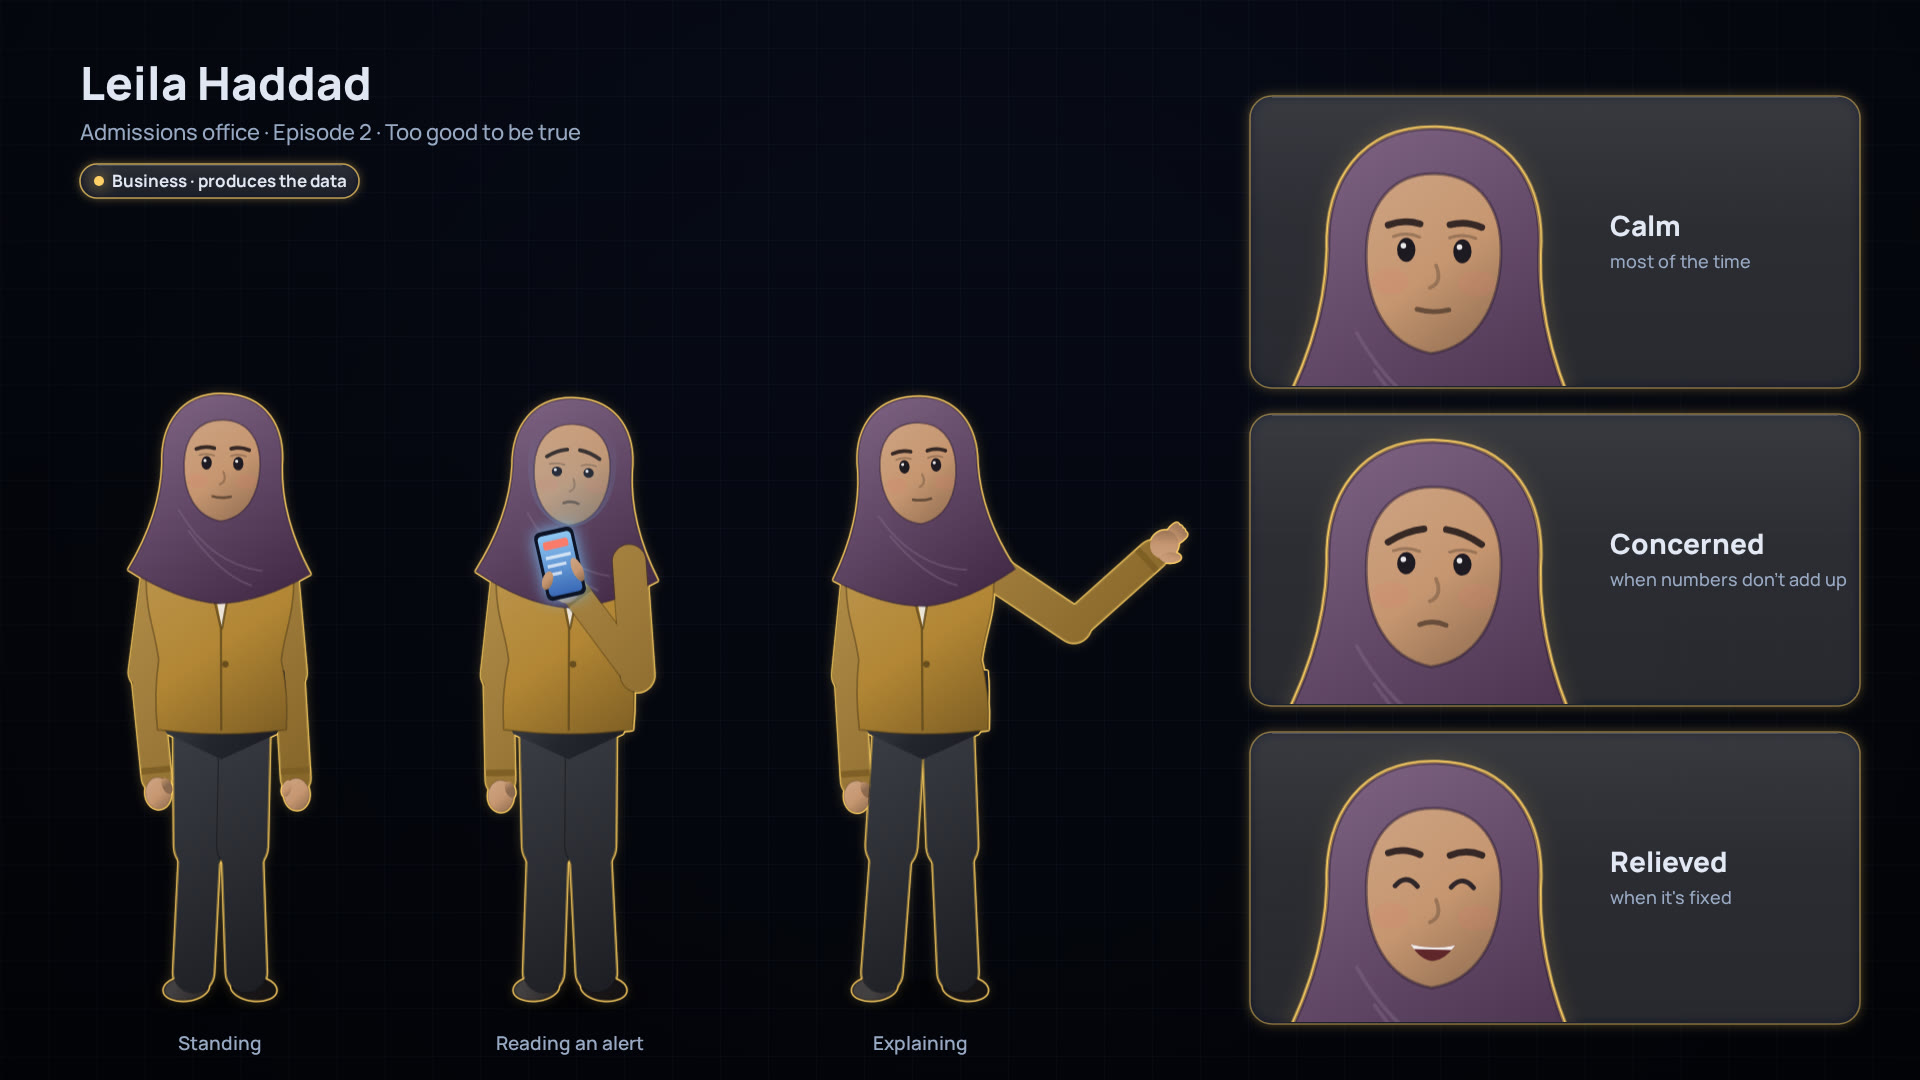
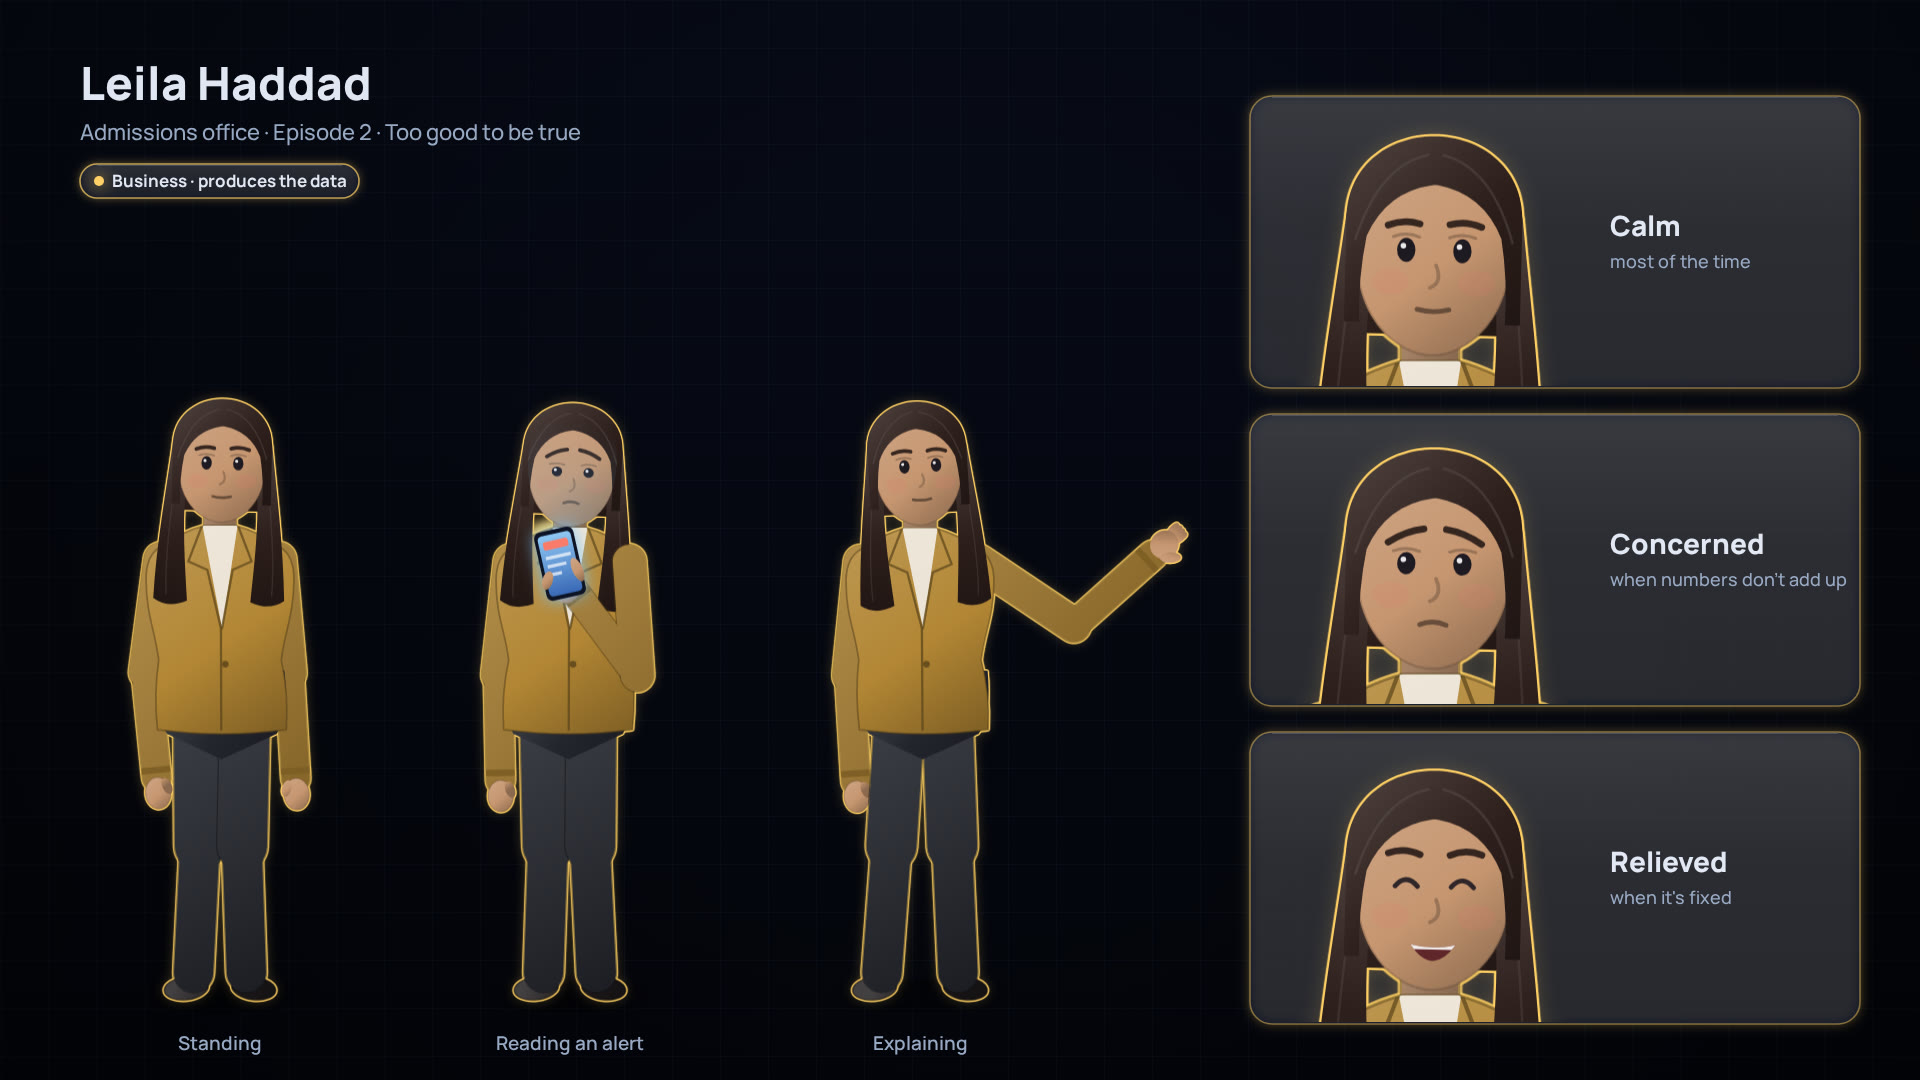
Change Leila's look to long, uncovered hair
At the author's request, Leila no longer wears a head covering: she has
long dark hair with a middle parting, distinct from the other
characters' hair. The head-covering drawing code is removed, and the
line-up, her card and the character sheet's README are updated.

Claude-Session: https://claude.ai/code/session_014Sfc4fgdpAXDRgjmQhfUim

diff --git a/films/when-things-go-wrong/characters/people.js b/films/when-things-go-wrong/characters/people.js
@@ -22,7 +22,7 @@ const PEOPLE={
     skin:[112,72,50],hair:{style:"coily",c:[30,24,22]},glasses:[28,30,38],lanyard:TECH,
     top:{kind:"overshirt",c:[60,92,110],inner:[212,220,232]},bottom:{c:[42,50,66]},shoe:[28,30,36],build:{sh:74,hip:58,h:1}},
   leila:{name:"Leila Haddad",role:"Admissions office",side:"Business",does:"produces",edge:BIZ,seed:5,
-    skin:[198,150,112],hijab:[96,62,102],
+    skin:[198,150,112],hair:{style:"long",c:[46,32,28]},earrings:[255,214,140],
     top:{kind:"blazer",c:[178,134,52],inner:[236,228,214]},bottom:{c:[36,38,46]},shoe:[32,28,30],build:{sh:68,hip:60,h:0.96}},
   rosa:{name:"Rosa Díaz",role:"Admissions system team",side:"Technical",does:"produces",edge:TECH,seed:6,
     skin:[182,130,92],hair:{style:"curly",c:[46,30,24]},
@@ -130,6 +130,9 @@ function bumpy(ctx,cx,cy,rx,ry,a0,a1,n,amp,phase){ // an outline with soft bumps
 function hairBack(ctx,P){const H=P.hair;if(!H)return;const c=H.c;
   if(H.style==="bob"){ctx.beginPath();ctx.moveTo(-47,-20);ctx.bezierCurveTo(-54,-72,54,-72,47,-20);ctx.bezierCurveTo(52,10,52,34,44,44);ctx.quadraticCurveTo(30,50,22,40);ctx.lineTo(-22,40);ctx.quadraticCurveTo(-30,50,-44,44);ctx.bezierCurveTo(-52,34,-52,10,-47,-20);ctx.closePath();litFill(ctx,c,-50,-70,50,50);}
   if(H.style==="bun"){ell(ctx,0,-66,19,16);litFill(ctx,c,-19,-82,19,-50);seam(ctx,c,0.4);}
+  if(H.style==="long"){ctx.beginPath();ctx.moveTo(-46,-20);ctx.bezierCurveTo(-52,-78,52,-78,46,-20);ctx.lineTo(46,40);ctx.lineTo(-46,40);ctx.closePath();litFill(ctx,c,-50,-70,50,40);
+    for(const s of [-1,1]){ctx.beginPath();ctx.moveTo(s*47,-24);ctx.bezierCurveTo(s*52,20,s*60,70,s*62,124);ctx.quadraticCurveTo(s*48,134,s*30,126);ctx.bezierCurveTo(s*33,90,s*36,54,s*34,24);ctx.closePath();
+      litFill(ctx,c,s*30,-24,s*62,130);ctx.strokeStyle=rgba(lighten(c,0.22),0.35);ctx.lineWidth=1.4;ctx.beginPath();ctx.moveTo(s*44,10);ctx.bezierCurveTo(s*48,50,s*52,90,s*50,120);ctx.stroke();}}
   if(H.style==="curly"){ctx.beginPath();bumpy(ctx,0,-8,62,70,Math.PI*0.72,Math.PI*2.28,34,0.13,P.seed);ctx.quadraticCurveTo(0,86,-44,54);ctx.closePath();litFill(ctx,c,-60,-80,60,70);
     ctx.fillStyle=rgba(lighten(c,0.18),0.5);for(let i=0;i<40;i++){const a=hash(i,P.seed)*TAU,r=30+hash(i,9)*30;ell(ctx,Math.cos(a)*r,-8+Math.sin(a)*r*1.1,3,2,a);ctx.fill();}}}
 function hairFront(ctx,P){const H=P.hair;if(!H)return;const c=H.c;
@@ -137,6 +140,8 @@ function hairFront(ctx,P){const H=P.hair;if(!H)return;const c=H.c;
     ctx.save();ctx.clip();ctx.fillStyle=rgba(lighten(c,0.22),0.55);for(let i=0;i<60;i++){ell(ctx,(hash(i,3)-0.5)*90,-62+hash(i,5)*34,1.8,1.5);ctx.fill();}ctx.restore();}
   if(H.style==="bob"){ctx.beginPath();ctx.moveTo(-44,-14);ctx.bezierCurveTo(-48,-58,-10,-66,8,-58);ctx.bezierCurveTo(34,-54,48,-34,44,-6);ctx.quadraticCurveTo(30,-36,4,-34);ctx.quadraticCurveTo(-22,-30,-32,-20);ctx.quadraticCurveTo(-38,4,-40,24);ctx.closePath();litFill(ctx,c,-46,-64,46,20);
     ctx.save();ctx.clip();ctx.strokeStyle=rgba(H.streak,0.45);ctx.lineWidth=3;ctx.lineCap="round";ctx.beginPath();ctx.moveTo(-4,-60);ctx.quadraticCurveTo(12,-44,30,-34);ctx.stroke();ctx.restore();}
+  if(H.style==="long"){ctx.beginPath();ctx.moveTo(-1,-40);ctx.quadraticCurveTo(-26,-36,-36,-12);ctx.quadraticCurveTo(-40,10,-39,34);ctx.lineTo(-47,34);ctx.lineTo(-47,-18);ctx.bezierCurveTo(-50,-82,50,-82,47,-18);ctx.lineTo(47,34);ctx.lineTo(39,34);ctx.quadraticCurveTo(40,10,36,-12);ctx.quadraticCurveTo(26,-36,1,-40);ctx.closePath();
+    litFill(ctx,c,-47,-66,47,34);ctx.save();ctx.clip();ctx.strokeStyle=rgba(lighten(c,0.25),0.4);ctx.lineWidth=1.4;for(const s of [-1,1]){ctx.beginPath();ctx.moveTo(s*4,-56);ctx.quadraticCurveTo(s*30,-50,s*42,-10);ctx.stroke();}ctx.restore();}
   if(H.style==="bun"){ctx.beginPath();ctx.moveTo(-44,-8);ctx.bezierCurveTo(-48,-80,48,-80,44,-8);ctx.quadraticCurveTo(34,-30,2,-38);ctx.lineTo(-2,-38);ctx.quadraticCurveTo(-34,-30,-43,-8);ctx.closePath();litFill(ctx,c,-46,-62,46,-8);
     ctx.strokeStyle=rgba(lighten(c,0.25),0.5);ctx.lineWidth=1.4;ctx.beginPath();ctx.moveTo(0,-56);ctx.lineTo(0,-38);ctx.stroke();}
   if(H.style==="side"){ctx.beginPath();ctx.moveTo(-44,-6);ctx.bezierCurveTo(-50,-84,34,-90,47,-30);ctx.lineTo(44,-8);ctx.quadraticCurveTo(38,-30,26,-38);ctx.quadraticCurveTo(-10,-30,-30,-38);ctx.quadraticCurveTo(-40,-26,-43,-6);ctx.closePath();litFill(ctx,c,-46,-66,46,-6);
@@ -144,12 +149,6 @@ function hairFront(ctx,P){const H=P.hair;if(!H)return;const c=H.c;
   if(H.style==="curly"){ctx.beginPath();bumpy(ctx,0,-24,48,36,Math.PI*1.0,Math.PI*2.0,24,0.16,P.seed+1);ctx.quadraticCurveTo(30,-26,6,-34);ctx.quadraticCurveTo(-24,-30,-48,-24);ctx.closePath();litFill(ctx,c,-50,-66,50,-20);}
   if(H.style==="cropped"){ctx.beginPath();ctx.moveTo(-43,-16);ctx.bezierCurveTo(-46,-79,46,-79,43,-16);ctx.quadraticCurveTo(38,-36,24,-40);ctx.quadraticCurveTo(0,-46,-24,-40);ctx.quadraticCurveTo(-38,-36,-42,-16);ctx.closePath();
     ctx.fillStyle=rgba(c,0.9);ctx.fill();ctx.save();ctx.clip();ctx.fillStyle=rgba(darken(c,0.3),0.45);for(let i=0;i<70;i++){const x=(hash(i,4)-0.5)*84,y=-58+hash(i,6)*24;ell(ctx,x,y,1.2,1.2);ctx.fill();}ctx.restore();}}
-function hijab(ctx,P){const c=P.hijab;ctx.beginPath();ctx.moveTo(0,-70);ctx.bezierCurveTo(40,-70,58,-40,56,-4);ctx.bezierCurveTo(56,34,70,70,86,98);ctx.quadraticCurveTo(40,126,0,128);ctx.quadraticCurveTo(-40,126,-86,98);
-  ctx.bezierCurveTo(-70,70,-56,34,-56,-4);ctx.bezierCurveTo(-58,-40,-40,-70,0,-70);ctx.closePath();
-  ctx.moveTo(0,-46);ctx.bezierCurveTo(-24,-46,-36,-28,-36,-4);ctx.bezierCurveTo(-36,24,-24,46,0,50);ctx.bezierCurveTo(24,46,36,24,36,-4);ctx.bezierCurveTo(36,-28,24,-46,0,-46);ctx.closePath();
-  const g=ctx.createLinearGradient(-60,-70,60,120);g.addColorStop(0,rgba(lighten(c,0.2),1));g.addColorStop(1,rgba(darken(c,0.3),1));ctx.fillStyle=g;ctx.fill("evenodd");
-  ctx.strokeStyle=rgba(darken(c,0.5),0.5);ctx.lineWidth=1.6;ctx.stroke();
-  ctx.strokeStyle=rgba(lighten(c,0.25),0.4);ctx.lineWidth=2;ctx.beginPath();ctx.moveTo(-40,40);ctx.quadraticCurveTo(-10,90,40,96);ctx.stroke();ctx.beginPath();ctx.moveTo(-30,60);ctx.quadraticCurveTo(0,100,30,110);ctx.stroke();}
 function beard(ctx,P){const c=P.beard;ctx.beginPath();ctx.moveTo(-42,0);ctx.bezierCurveTo(-42,22,-34,40,-24,46);ctx.bezierCurveTo(-14,55,14,55,24,46);ctx.bezierCurveTo(34,40,42,22,42,0);
   ctx.lineTo(36,4);ctx.quadraticCurveTo(28,14,14,16);ctx.quadraticCurveTo(0,13,-14,16);ctx.quadraticCurveTo(-28,14,-36,4);ctx.closePath();ctx.fillStyle=rgba(c,0.94);ctx.fill();
   ctx.fillStyle=rgba(lighten(c,0.2),0.35);for(let i=0;i<50;i++){const a=hash(i,2)*Math.PI,r=30+hash(i,8)*14;ell(ctx,Math.cos(a)*r*0.9,14+Math.sin(a)*r*0.8,1.2,1.2);ctx.fill();}}
@@ -165,7 +164,7 @@ function face(ctx,P,E,po,t){const fx=po.turn*7,ly=po.look*3,dark=[30,26,34];
       ell(ctx,ex+po.gaze[0]*1.5-1.6,ey+po.gaze[1]*1.5-2.2*open,1.5,1.5);ctx.fillStyle="rgba(255,255,255,0.9)";ctx.fill();
       ctx.strokeStyle=rgba(darken(P.skin,0.45),0.5);ctx.lineWidth=1.6;ctx.beginPath();ctx.moveTo(ex-7,ey-6.5*open-0.5);ctx.quadraticCurveTo(ex,ey-8.8*open-1,ex+7,ey-6.5*open-0.5);ctx.stroke();}
     // brows
-    const ix=s*(8-(E.knit||0))+fx,ox=s*25+fx,by=-19+ly*0.6;ctx.strokeStyle=rgba(P.hair?darken(P.hair.c,0.1):P.hijab?[40,30,30]:dark,0.92);ctx.lineWidth=3.6;ctx.lineCap="round";
+    const ix=s*(8-(E.knit||0))+fx,ox=s*25+fx,by=-19+ly*0.6;ctx.strokeStyle=rgba(darken(P.hair.c,0.1),0.92);ctx.lineWidth=3.6;ctx.lineCap="round";
     ctx.beginPath();ctx.moveTo(ix,by+E.bi);ctx.quadraticCurveTo((ix+ox)/2,by+E.arch+Math.min(E.bi,E.bo)*0.5,ox,by+E.bo+1);ctx.stroke();}
   // nose
   ctx.strokeStyle=rgba(darken(P.skin,0.4),0.55);ctx.lineWidth=2;ctx.lineCap="round";ctx.beginPath();ctx.moveTo(fx*1.3+1,3+ly);ctx.quadraticCurveTo(fx*1.3+5,12+ly,fx*1.3-2,15+ly);ctx.stroke();
@@ -179,12 +178,12 @@ function face(ctx,P,E,po,t){const fx=po.turn*7,ly=po.look*3,dark=[30,26,34];
     ctx.beginPath();ctx.moveTo(-4+fx,-6+ly);ctx.quadraticCurveTo(fx,-9+ly,4+fx,-6+ly);ctx.stroke();ctx.beginPath();ctx.moveTo(-26+fx,-7+ly);ctx.lineTo(-40,-9);ctx.moveTo(26+fx,-7+ly);ctx.lineTo(40,-9);ctx.stroke();
     ctx.strokeStyle="rgba(255,255,255,0.3)";ctx.lineWidth=1.6;for(const s of [-1,1]){ctx.beginPath();ctx.arc(s*15+fx,-4+ly,8,-2.6,-1.8);ctx.stroke();}}}
 function head(ctx,P,E,po,t){
-  if(P.hijab){}else hairBack(ctx,P);
-  if(!P.hijab&&P.hair.style!=="bob"&&P.hair.style!=="curly")for(const s of [-1,1]){ell(ctx,s*42,0,7,11);litFill(ctx,P.skin,-50,-12,50,12);seam(ctx,P.skin,0.25,1.2);}
+  hairBack(ctx,P);
+  if(!["bob","curly","long"].includes(P.hair.style))for(const s of [-1,1]){ell(ctx,s*42,0,7,11);litFill(ctx,P.skin,-50,-12,50,12);seam(ctx,P.skin,0.25,1.2);}
   headPath(ctx);litFill(ctx,P.skin,-42,-56,42,51);seam(ctx,P.skin,0.3,1.4);
   face(ctx,P,E,po,t);
   if(P.earrings){ctx.fillStyle=rgba(P.earrings,1);for(const s of [-1,1]){ell(ctx,s*43,13,2.8,2.8);ctx.fill();}}
-  if(P.hijab)hijab(ctx,P);else hairFront(ctx,P);
+  hairFront(ctx,P);
   if(po.hold==="phone"){const g=ctx.createRadialGradient(0,50,4,0,40,90);g.addColorStop(0,"rgba(120,200,255,0.22)");g.addColorStop(1,"rgba(120,200,255,0)");ctx.fillStyle=g;headPath(ctx);ctx.fill();}}
 
 /* ---- a whole person, with a luminous outline ---- */

diff --git a/films/when-things-go-wrong/characters/README.md b/films/when-things-go-wrong/characters/README.md
@@ -19,7 +19,7 @@ First pass of the character sheet for [When things go wrong](../README.md), the 
 
 - **The outline's colour carries meaning,** like every colour in the films: cyan for the technical side, gold for the business side. Together with the role, it places each person in the square of the series: technical or business, producing or using the data.
 - **A simple, original style.** Rounded forms, soft light from the upper left, and faces made of a few lines: eyes, brows, a nose and a mouth are enough for calm, concerned and relieved. Characters blink and breathe, so they stay alive when still.
-- **A varied cast, without stereotypes.** Different ages, skin tones and hair; Leila wears a hijab. The technical side isn't all men: in the second episode, Rosa Díaz runs the admissions system.
+- **A varied cast, without stereotypes.** Different ages, skin tones and hair. The technical side isn't all men: in the second episode, Rosa Díaz runs the admissions system.
 - **One world.** The platform seen through Sam's screen is the first film's own code, drawn live, so the two worlds match exactly.
 
 ## What this checkpoint shows
